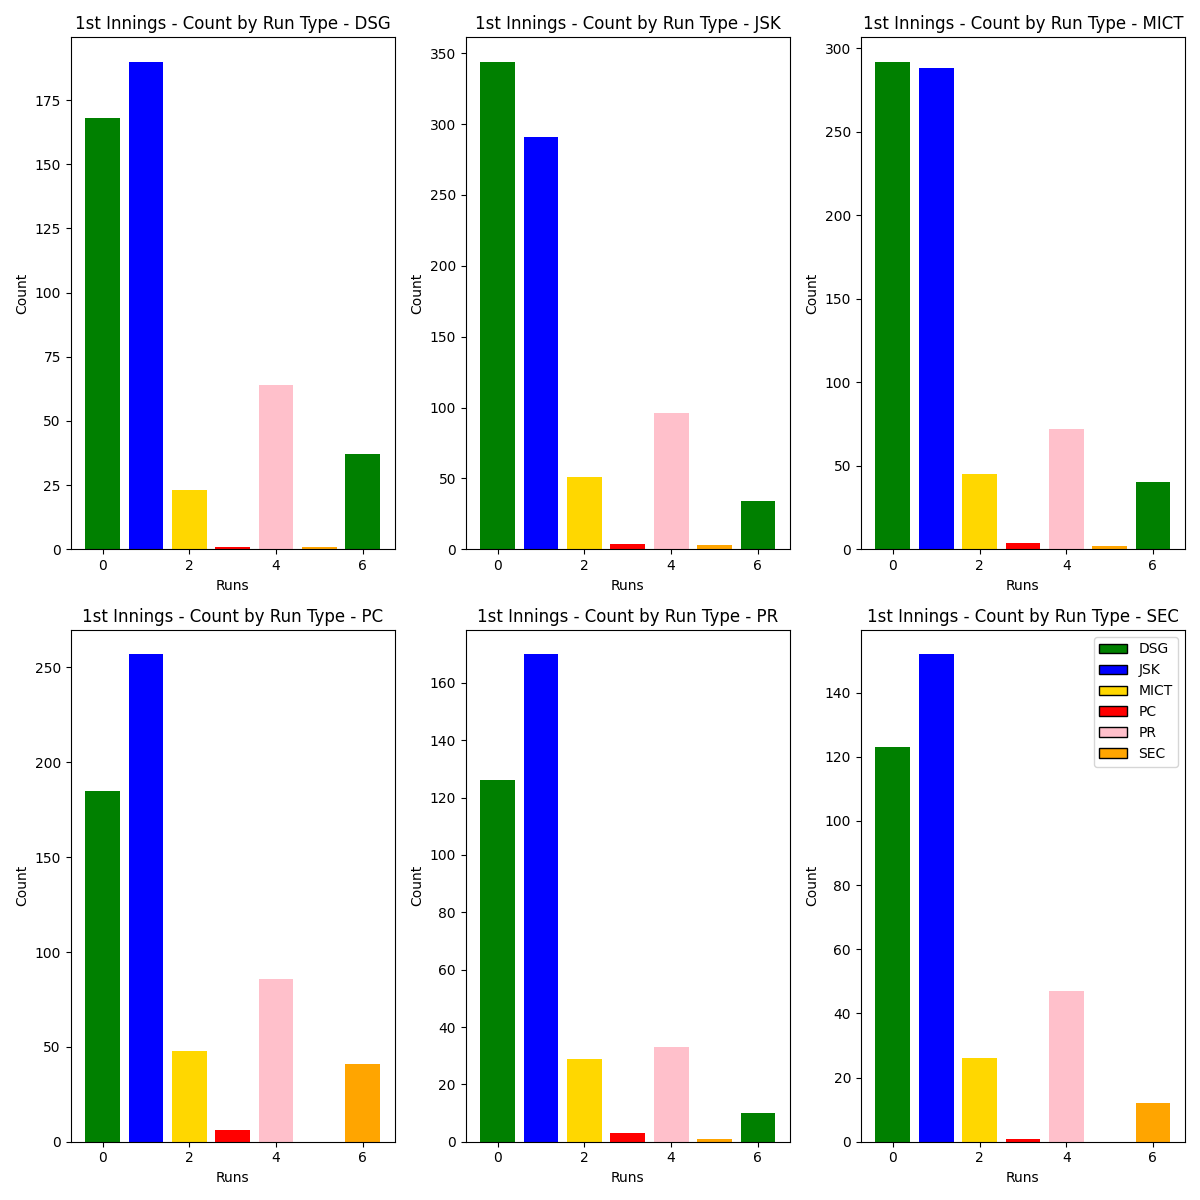
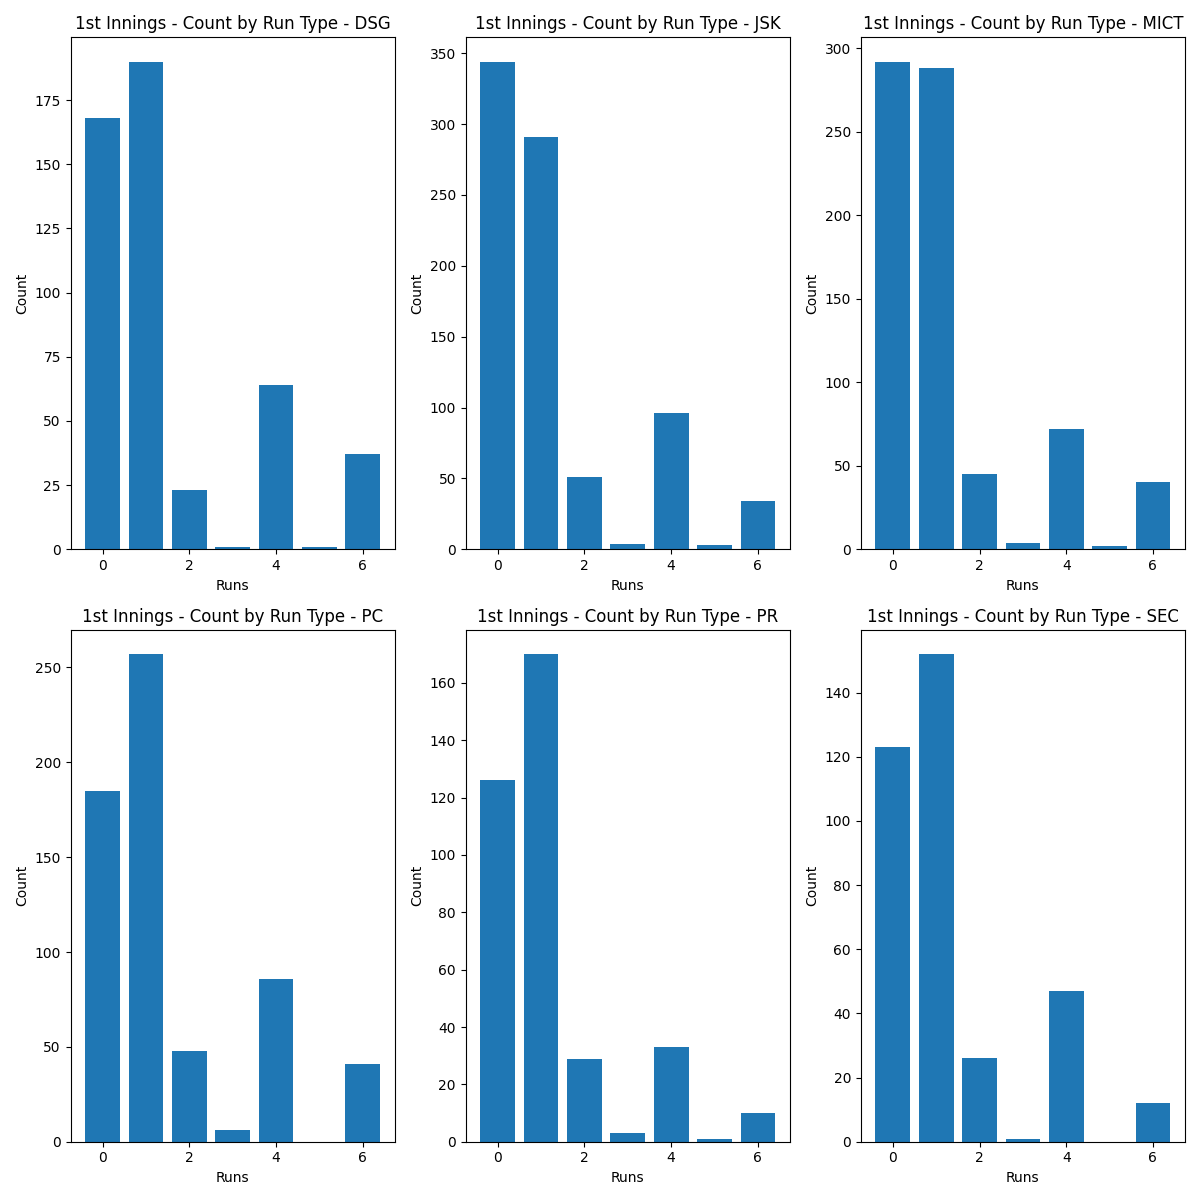
Fixed bowling graphing error

diff --git a/src/visualize_information.py b/src/visualize_information.py
@@ -177,7 +177,9 @@ class VisualizeInformation:
         top_10_players = bowling_df.nlargest(10, "total_wickets")
 
         # Create the bar chart with different colors
-        bars = plt.bar(
+        fig, ax = plt.subplots()  # Create a figure and axis object
+
+        bars = ax.bar(
             top_10_players["fullName"],
             top_10_players["total_wickets"],
             color=[TEAM_COLOURS.get(team, "gray") for team in top_10_players["team"]],
@@ -193,7 +195,7 @@ class VisualizeInformation:
         ]
 
         # Create the legend
-        plt.legend(legend_handles, unique_teams, loc="upper right")
+        ax.legend(legend_handles, unique_teams, loc="upper right")
 
         plt.xlabel("Player Name")
         plt.ylabel("Total Wickets")
@@ -329,17 +331,6 @@ class VisualizeInformation:
         num_cols = 3
         num_rows = (num_teams + 1) // num_cols  # Calculate the number of rows required
         fig, axs = plt.subplots(num_rows, num_cols, figsize=(12, 6 * num_rows))
-        # Create a list of unique teams
-        unique_teams = innings_density["current_innings"].unique()
-
-        # Create a list of legend handles
-        legend_handles = [
-            Patch(facecolor=TEAM_COLOURS.get(team, "gray"), edgecolor="black")
-            for team in unique_teams
-        ]
-
-        # Create the legend
-        plt.legend(legend_handles, unique_teams, loc="upper right")
 
         for i, team in enumerate(teams):
             team_data = innings_density[innings_density["current_innings"] == team]
@@ -350,11 +341,7 @@ class VisualizeInformation:
             ax = (
                 axs[row, col] if num_rows > 1 else axs[col]
             )  # Select the correct subplot axes
-            ax.bar(
-                runs,
-                count,
-                color=[TEAM_COLOURS.get(team, "gray") for team in unique_teams],
-            )
+            ax.bar(runs, count)
             ax.set_xlabel("Runs")
             ax.set_ylabel("Count")
             ax.set_title(f"{first_or_second} Innings - Count by Run Type - {team}")
